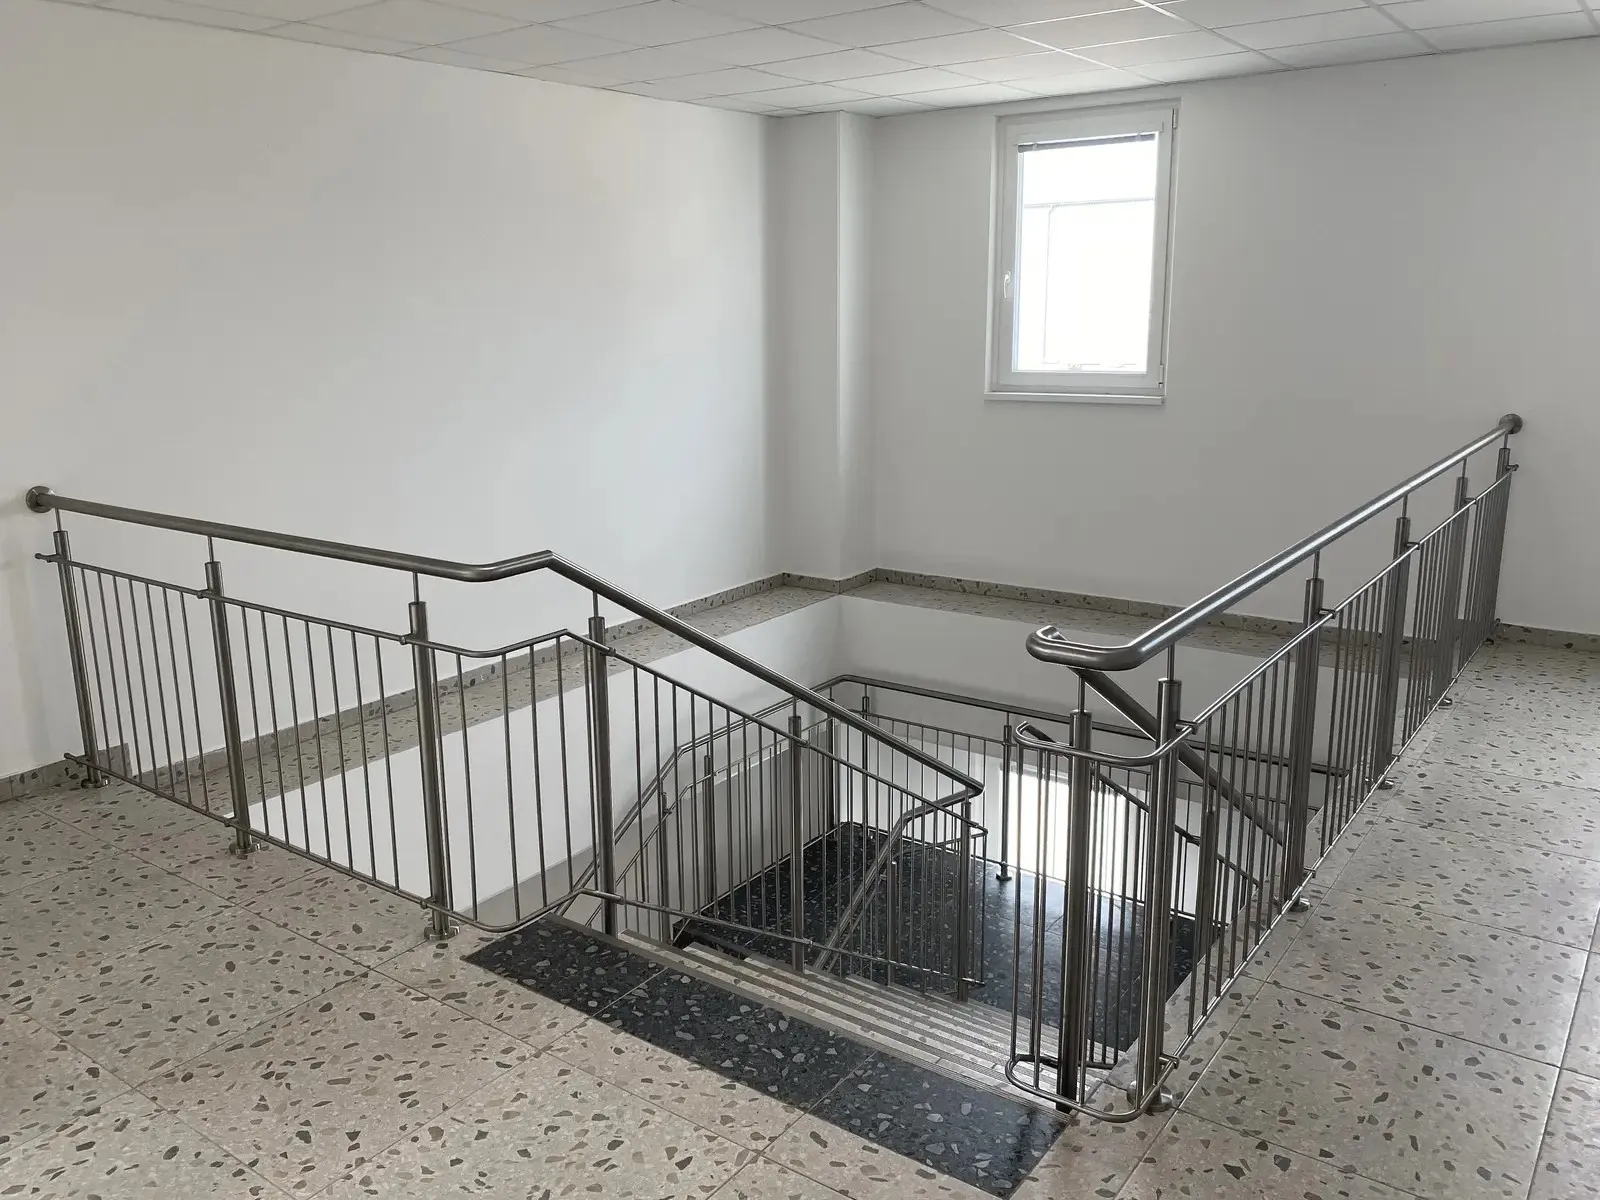
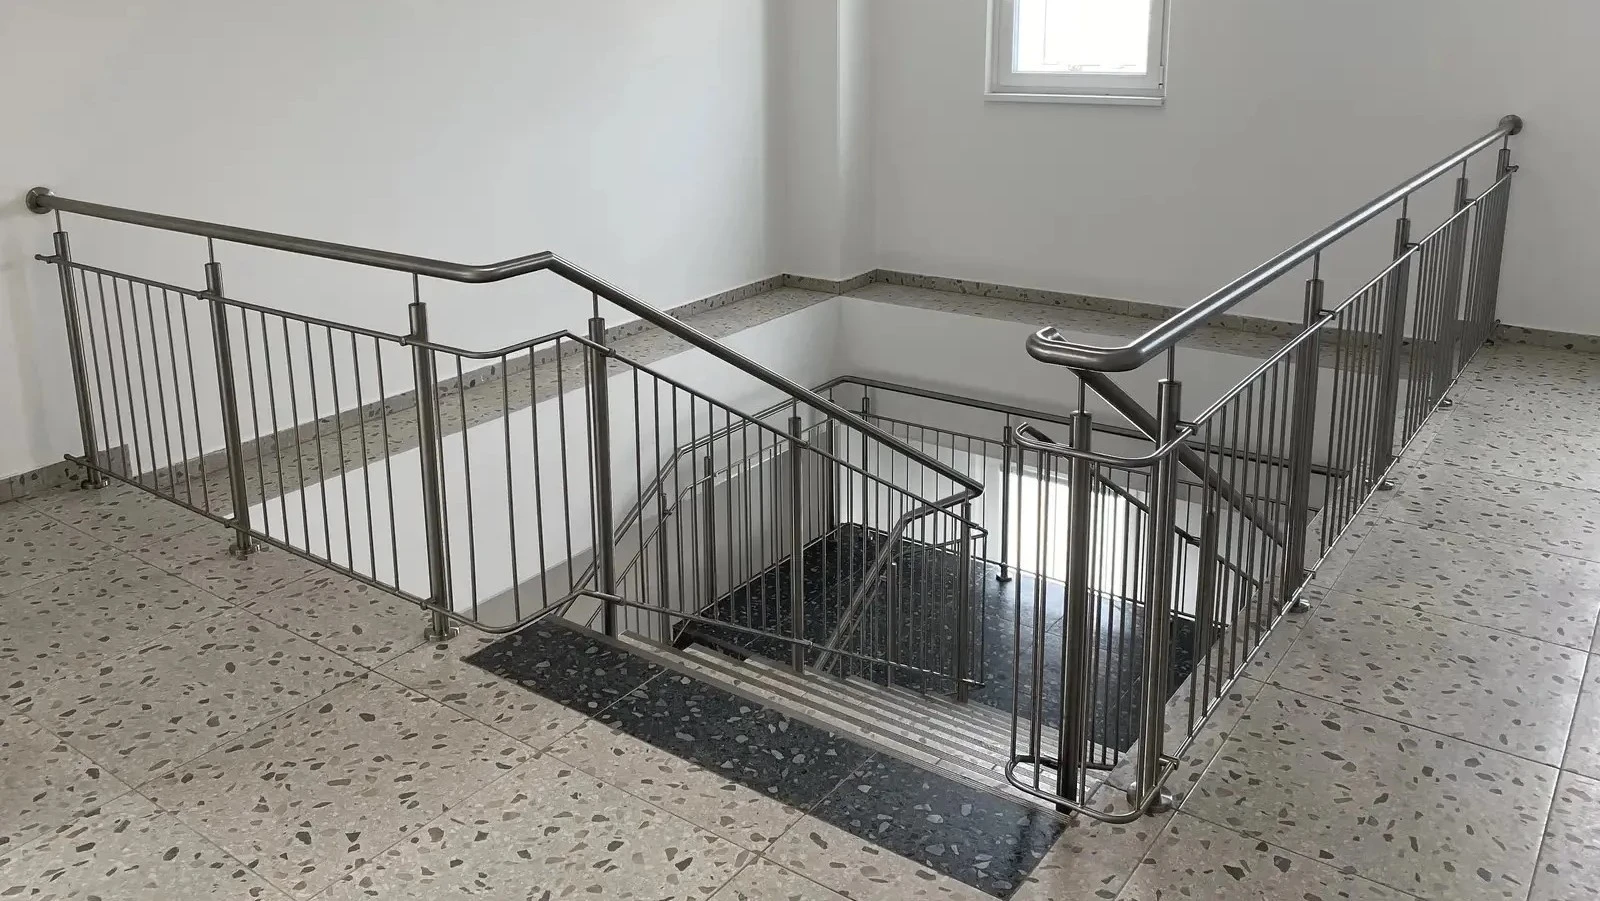
refactor: convert introduction img form jpg to webp

diff --git a/src/components/Introduction.vue b/src/components/Introduction.vue
@@ -1,7 +1,7 @@
 <script setup>
-import firstImg from '../imgs/introduction-imgs/first.jpg'
-import secondImg from '../imgs/introduction-imgs/second.jpg'
-import thirdImg from '../imgs/introduction-imgs/third.jpg'
+import firstImg from '../imgs/introduction-imgs/first.webp'
+import secondImg from '../imgs/introduction-imgs/second.webp'
+import thirdImg from '../imgs/introduction-imgs/third.webp'
 </script>
 
 <template>
